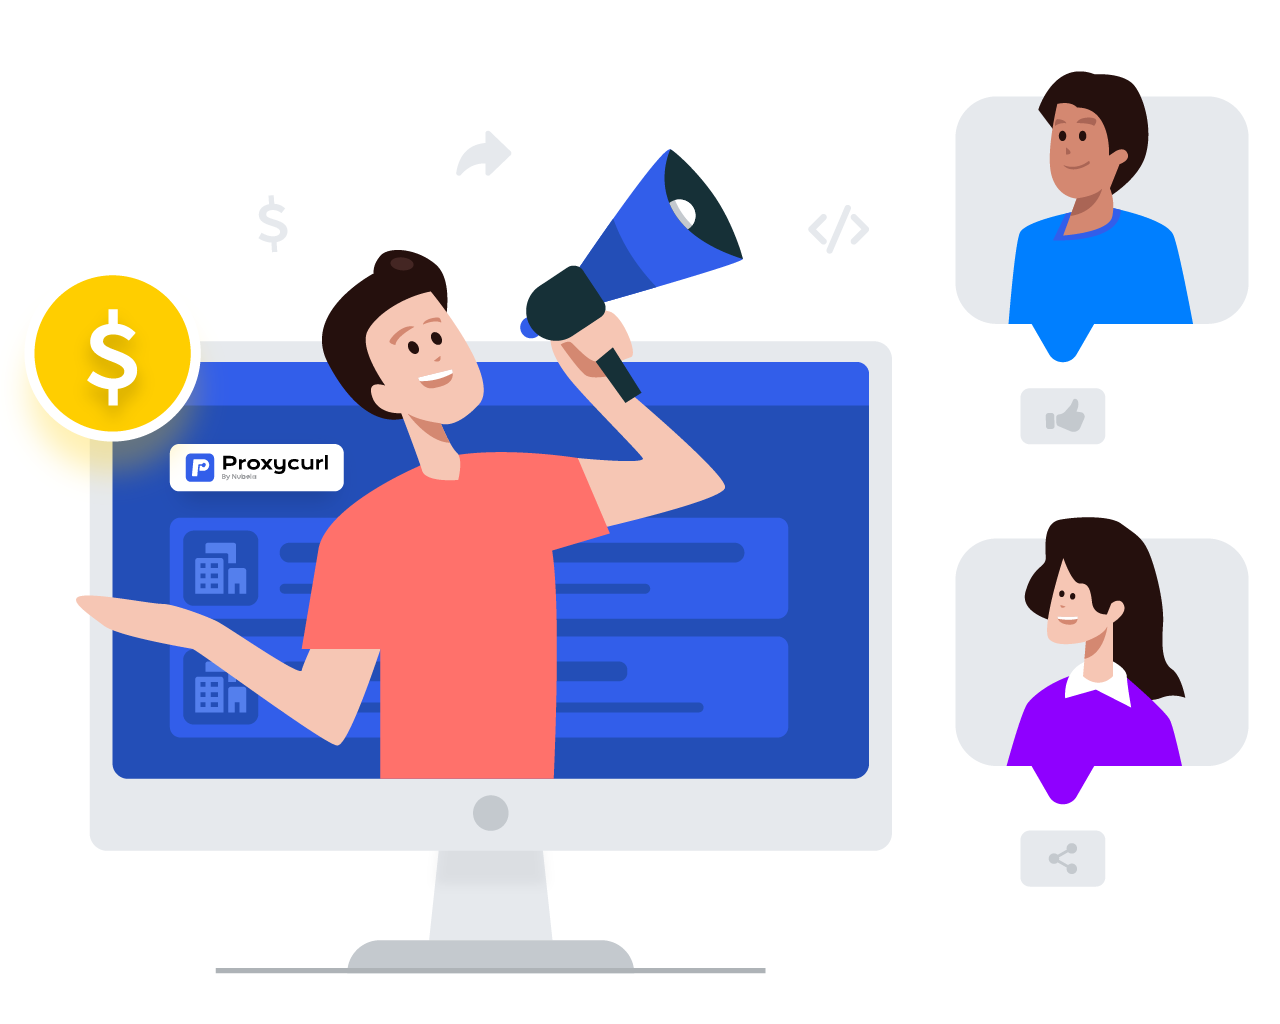
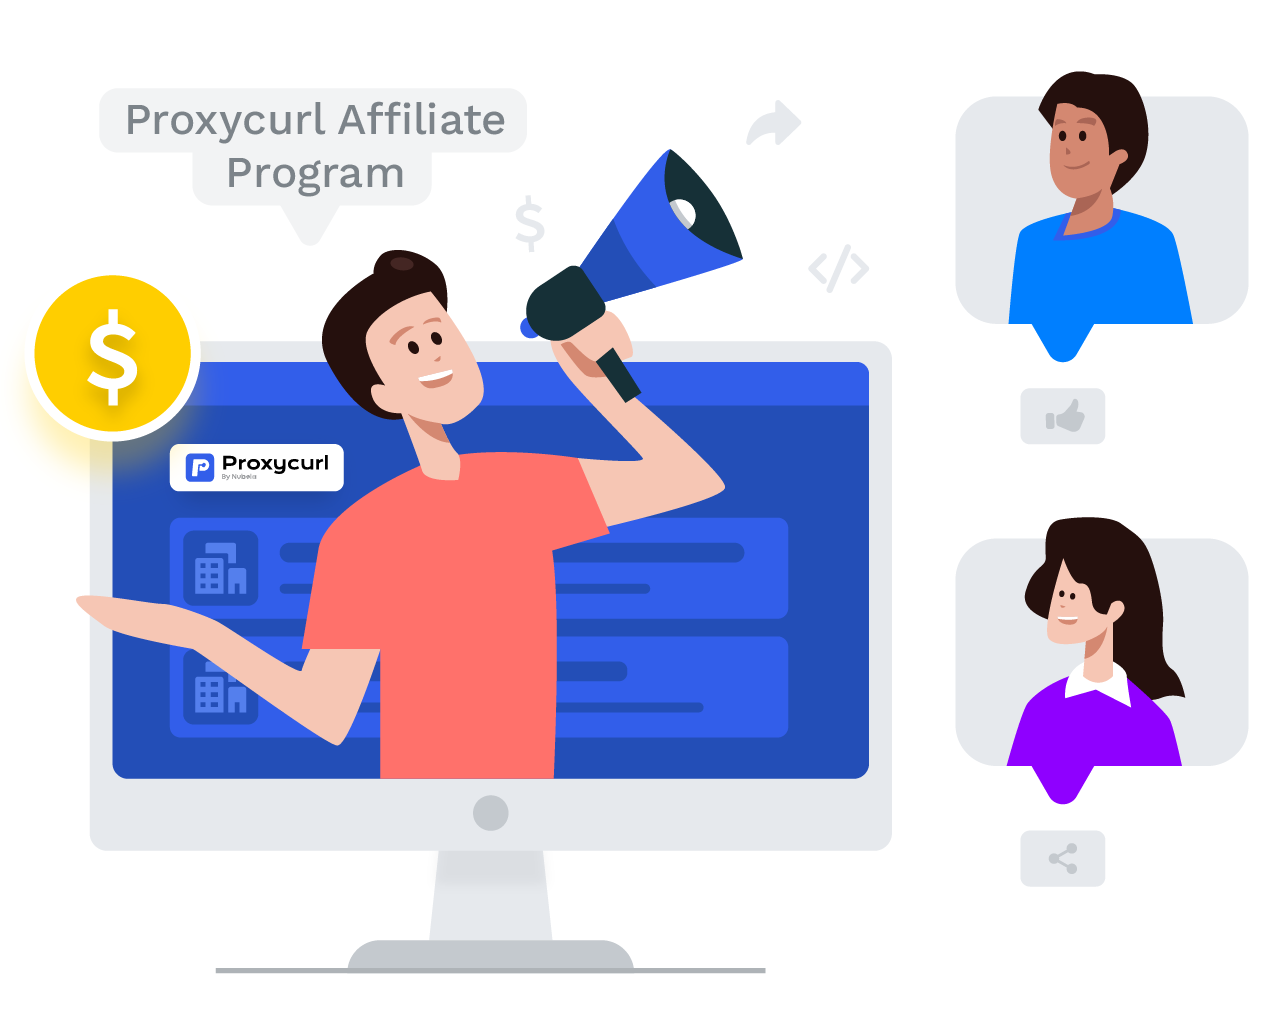
update

diff --git a/proxycurl-affiliate copy.html b/proxycurl-affiliate copy.html
@@ -273,28 +273,6 @@
     </div>
   </nav>
 
-  <!-- Modal -->
-  <div class="modal" id="exampleModal" tabindex="-1" role="dialog" aria-labelledby="exampleModalLabel" aria-hidden="true">
-    <div class="modal-dialog modal-dialog-centered modal-lg" role="document">
-      <div class="modal-content">
-        <div class="text-right mr-4 mt-3">
-        <button type="button" class="close" data-dismiss="modal" aria-label="Close">
-          <span aria-hidden="true">×</span>
-        </button>
-        </div>
-        <div class="modal-body pt-3">
-	
-          <iframe class="nc-embed"
-          src="https://sheets.nubela.co/dashboard/#/nc/form/8ac6ff79-d92a-4bd5-a43c-377e19645263?embed"
-          frameborder="0"
-          width="100%"
-          height="670"
-          style="background: transparent; border: 1px solid #ddd"></iframe>
-        </div>
-      </div>
-    </div>
-  </div>
-
   <!-- WELCOME
     ================================================== -->
   <section class="pt-4 pt-md-4 pt-lg-12  pb-8 pb-lg-12 bg-light border-bottom">
@@ -322,11 +300,11 @@
 
           <!-- Buttons -->
           <div class="text-center text-lg-left">
-            <button type="button" class="btn btn-primary lift mr-1 mb-3 mb-md-2 shadow" data-toggle="modal" data-target="#exampleModal">
-              Sign up Now
-            </button>
+            <a href="#!" class="btn btn-primary shadow lift mr-1 mb-3 mb-md-2">
+              Get UTM tag</i>
+            </a>
             <a href="#!" class="btn btn-primary-soft lift mb-2">
-              How it works
+              How does it work?
             </a>
           </div>
 
@@ -337,7 +315,97 @@
 
   <!-- SECOND FOLD
     ================================================== -->
-    <section class="pt-8 pt-md-12 pb-8 pb-lg-11 bg-white border-bottom">
+  <section class="py-8 py-lg-12 bg-white border-bottom">
+    <div class="container">
+      <div class="row justify-content-center">
+        <div class="col-12 col-md-10 col-lg-8 text-center">
+
+          <!-- Heading -->
+          <h1 class="mb-8 mb-md-10 font-weight-bold">
+            How much you can make?
+          </h1>
+
+        </div>
+      </div>
+
+      <div class="row mb-0 mb-md-8">
+
+        <div class="col-12 col-md-12 d-flex" data-aos="fade-up">
+          
+        <!-- Card -->
+        <div class="card shadow-light-lg mb-6 mb-md-0 lift lift-lg">
+            
+            <!-- Image -->
+            <img src="assets/img/illustrations/Proxycurl-affiliate_2_3.png" alt="..." class="card-img-top">
+
+            <!-- Body -->
+            <div class="card-body position-relative">
+              
+
+              <p class="text-muted text-center">
+                You will <span class="text-info">get $803.45/mo</span> in affiliate revenue from Proxycurl              
+              </p>
+
+            </div>
+
+        </div>
+
+        </div>
+
+      </div>
+      
+      <div class="row">
+        <div class="col-12 col-md-6 d-flex" data-aos="fade-up" data-aos-delay="100">
+          
+          <!-- Card -->
+          <div class="card shadow-light-lg mb-6 mb-md-0 lift lift-lg">
+            
+            <!-- Image -->
+            <img src="assets/img/illustrations/Proxycurl-affiliate_2_1.png" alt="..." class="card-img-top">
+
+            <!-- Body -->
+            <div class="card-body position-relative">
+              
+
+              <p class="text-muted text-center">
+                If you have the ability to <span class="text-info">reach at least 1000 software engineers</span>
+              </p>
+
+            </div>
+
+          </div>
+
+        </div>
+
+        <div class="col-12 col-md-6 d-flex" data-aos="fade-up" data-aos-delay="200">
+          
+          <!-- Card -->
+          <div class="card shadow-light-lg lift lift-lg">
+            
+            <!-- Image -->
+            <img src="assets/img/illustrations/Proxycurl-affiliate_2_2.png" alt="..." class="card-img-top">
+
+            <!-- Body -->
+            <div class="card-body position-relative">
+              
+
+              <p class="text-muted text-center">
+                And <span class="text-info">convert 1% of the audience</span> to Proxycurl
+              </p>
+
+            </div>
+
+          </div>
+
+        </div>
+
+      </div> <!-- / .row -->    
+    </div>
+  </section>
+
+  <!-- THIRD FOLD
+    ================================================== -->
+    <section class="pt-8 pt-md-12 pb-8 pb-lg-11 bg-light border-bottom">
 
       <!-- Content heading -->
       <div class="container">
@@ -377,12 +445,9 @@
 
                 <!-- Heading -->
                 <h2>
-                  <span class="text-info">Sign up</span> on our affiliate form
+                  Register on <span class="text-info">Google Forms</span>
                 </h2>
 
-                <button type="button" class="btn btn-primary lift mr-1 mb-3 mb-md-2 shadow" data-toggle="modal" data-target="#exampleModal">
-                  Sign up Now
-                </button>
 
               </div>
 
@@ -499,70 +564,6 @@
   
     </section>
 
-  <!-- THIRD FOLD
-      ================================================== -->
-  <section class="bg-light border-bottom pt-8 pt-md-11 pb-10">
-    <div class="container-fluid">
-
-      <div class="row justify-content-center mb-8 mb-md-9 ">
-  
-        <div class="col-6 text-center">
-  
-          <!-- Heading -->
-          <h1 class="mb-0 mb-md-4 text-black font-weight-bold">
-            Promote your UTM tag anywhere you want it
-          </h1>
-        </div>
-      </div> <!-- / .row -->
-
-      <div class="row px-0 px-md-12">
-        <div class="col-12 col-md-3 mb-6 mb-md-0 " data-aos="fade-up">
-          <div class="card shadow-light-lg lift">
-            <div class="card-body">
-              <!-- Image -->
-              <img class="img-fluid rounded" src="assets/img/illustrations/illustrationex1x1.png">
-              <p class="h3 text-center pt-6">Blog Post </p>
-            </div>
-          </div>
-        </div>
-      
-        <div class="col-12 col-md-3 mb-6 mb-md-0 " data-aos="fade-up" data-aos-delay="50">
-          <div class="card shadow-light-lg lift">
-            <div class="card-body">
-              <!-- Image -->
-              <img class="img-fluid rounded" src="assets/img/illustrations/illustrationex1x1.png">
-              <p class="h3 text-center pt-6">Community Forum </p>
-            </div>
-          </div>
-        </div>
-      
-        <div class="col-12 col-md-3 " data-aos="fade-up" data-aos-delay="100">
-          <div class="card shadow-light-lg lift">
-            <div class="card-body">
-              <!-- Image -->
-              <img class="img-fluid rounded" src="assets/img/illustrations/illustrationex1x1.png">
-              <p class="h3 text-center pt-6">Website </p>
-            </div>
-
-          </div>
-
-        </div>
-      
-        <div class="col-12 col-md-3" data-aos="fade-up" data-aos-delay="150">
-          <div class="card shadow-light-lg lift">
-            <div class="card-body">
-              <!-- Image -->
-              <img class="img-fluid rounded" src="assets/img/illustrations/illustrationex1x1.png">
-              <p class="h3 text-center pt-6">Direct Share </p>
-            </div>
-          </div>
-
-        </div>
-      
-      </div> <!-- / .row -->
-
-    </div>
-  </section>
 
   <!-- FAQ-->
   <section class="pb-8 pb-md-12 pt-8 pt-md-10 bg-white border-bottom">
@@ -586,7 +587,6 @@
 
               <!-- List group -->
               <div class="list-group list-group-flush">
-
                 <div class="list-group-item">
 
                   <!-- Toggle -->
@@ -618,6 +618,7 @@
                   </div>
 
                 </div>
+
 
                 <div class="list-group-item">
 
@@ -651,6 +652,7 @@
 
                 </div>
 
+
                 <div class="list-group-item">
 
                   <!-- Toggle -->
@@ -676,142 +678,13 @@
                   <div class="collapse" id="featuresThree" data-parent="#featuresAccordion">
                     <div class="pt-2">
                       <p class="text-muted">
-                        You can but we will not be paying for it. For discounts for your company, check out our <a
-                          class="text-primary" href="#">Enterprise plans</a>.
+                        You can but we will not be paying for it. For discounts for your company, check out <a
+                          class="text-primary" href="#"> our Enterprise plans</a>.
                       </p>
                     </div>
                   </div>
 
                 </div>
-
-                <div class="list-group-item">
-
-                  <!-- Toggle -->
-                  <a class="d-flex align-items-center text-reset text-decoration-none" data-toggle="collapse"
-                    href="#featuresFour" role="button" aria-expanded="false" aria-controls="featuresFour">
-                    <div class="mr-auto">
-
-                      <!-- Title -->
-                      <p class="font-weight-bold mb-4">
-                        Do I need to be a Proxycurl customer to participate in the affiliate program?
-                      </p>
-
-                    </div>
-
-                    <!-- Chevron -->
-                    <span class="collapse-chevron text-muted ml-4">
-                      <i class="fe fe-lg fe-chevron-down"></i>
-                    </span>
-
-                  </a> <!-- / .row -->
-
-                  <!-- Collapse -->
-                  <div class="collapse" id="featuresFour" data-parent="#featuresAccordion">
-                    <div class="pt-2">
-                      <p class="text-muted">
-                        We recommend using the Proxycurl platform and understanding how it works to feel more confident in recommending our products, but being a Proxycurl customer is not required to participate in the affiliate program. You can use our trial quota to explore with the Proxycurl API.
-                      </p>
-                    </div>
-                  </div>
-
-                </div>
-
-                <div class="list-group-item">
-
-                  <!-- Toggle -->
-                  <a class="d-flex align-items-center text-reset text-decoration-none" data-toggle="collapse"
-                    href="#featuresFive" role="button" aria-expanded="false" aria-controls="featuresFive">
-                    <div class="mr-auto">
-
-                      <!-- Title -->
-                      <p class="font-weight-bold mb-4">
-                        What are the prerequisites to become a Proxycurl affiliate partner?
-                      </p>
-
-                    </div>
-
-                    <!-- Chevron -->
-                    <span class="collapse-chevron text-muted ml-4">
-                      <i class="fe fe-lg fe-chevron-down"></i>
-                    </span>
-
-                  </a> <!-- / .row -->
-
-                  <!-- Collapse -->
-                  <div class="collapse" id="featuresFive" data-parent="#featuresAccordion">
-                    <div class="pt-2">
-                      <p class="text-muted">
-                        We welcome anyone who is interested in joining our affiliate program! To begin, simply fill out our <a class="text-primary" href="https://sheets.nubela.co/dashboard/#/nc/form/8ac6ff79-d92a-4bd5-a43c-377e19645263">form</a>. There are no specific prerequisites for this program - as long as you are able to invite your network to join and use Proxycurl, you are eligible to participate. Our users are typically software engineers from various companies who need our API services, so having a background or knowledge in this field may be helpful.
-                      </p>
-                    </div>
-                  </div>
-
-                </div>
-
-                <div class="list-group-item">
-
-                  <!-- Toggle -->
-                  <a class="d-flex align-items-center text-reset text-decoration-none" data-toggle="collapse"
-                    href="#featuresSix" role="button" aria-expanded="false" aria-controls="featuresSix">
-                    <div class="mr-auto">
-
-                      <!-- Title -->
-                      <p class="font-weight-bold mb-4">
-                        How do you track my refferals?
-                      </p>
-
-                    </div>
-
-                    <!-- Chevron -->
-                    <span class="collapse-chevron text-muted ml-4">
-                      <i class="fe fe-lg fe-chevron-down"></i>
-                    </span>
-
-                  </a> <!-- / .row -->
-
-                  <!-- Collapse -->
-                  <div class="collapse" id="featuresSix" data-parent="#featuresAccordion">
-                    <div class="pt-2">
-                      <p class="text-muted">
-                        We use <a class="text-primary" href="https://firstpromoter.com/">Firstpromoter</a> to track your referrals and run our affiliate program. You will have access to a dashboard where you can see your affiliate performance and complete administrative tasks such as withdrawing money. 
-                      </p>
-                    </div>
-                  </div>
-
-                </div>
-
-                <div class="list-group-item">
-
-                  <!-- Toggle -->
-                  <a class="d-flex align-items-center text-reset text-decoration-none" data-toggle="collapse"
-                    href="#featuresSeven" role="button" aria-expanded="false" aria-controls="featuresSeven">
-                    <div class="mr-auto">
-
-                      <!-- Title -->
-                      <p class="font-weight-bold mb-4">
-                        I still need more technical detailed information about this affiliate program
-                      </p>
-
-                    </div>
-
-                    <!-- Chevron -->
-                    <span class="collapse-chevron text-muted ml-4">
-                      <i class="fe fe-lg fe-chevron-down"></i>
-                    </span>
-
-                  </a> <!-- / .row -->
-
-                  <!-- Collapse -->
-                  <div class="collapse" id="featuresSeven" data-parent="#featuresAccordion">
-                    <div class="pt-2">
-                      <p class="text-muted">
-                        Please contact us at <a class="text-primary" href="mailto:marketing@nubela.co">marketing@nubela.co</a> for more comprehensive information that you would like to inquire about. 
-                      </p>
-                    </div>
-                  </div>
-
-                </div>
-
               </div>
 
             </div>
